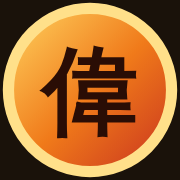
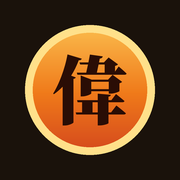
v1.12.0：ホーム画面に追加してアプリのように使えるように（PWA・オフライン対応）
Claude-Session: https://claude.ai/code/session_019EBEYLAobM15J8kx1PkpNF

diff --git a/sw.js b/sw.js
@@ -1,0 +1,28 @@
+/* オフライン対応（Service Worker）
+   - 通信できるときは常に最新のファイルを取りに行き（ネットワーク優先）、取れたものを保存しておく
+   - 通信できないときは、保存しておいたファイルで動かす
+   そのため、更新はオンラインで開けばすぐ反映される。CACHE の名前を変えると古い保存分を消す */
+const CACHE = 'ijinden-play-v1';
+const CORE = [
+  './', 'index.html', 'manifest.json',
+  'css/style.css', 'css/vs.css',
+  'js/version.js', 'js/cards-data.js', 'js/preset-decks.js', 'js/summon-rules.js', 'js/glossary.js',
+  'js/app.js', 'js/hand-checker.js', 'js/vs-engine.js', 'js/vs-ui.js',
+  'favicon.svg', 'favicon-32.png', 'apple-touch-icon.png', 'icon-192.png', 'icon-512.png'
+];
+self.addEventListener('install', e => {
+  e.waitUntil(caches.open(CACHE).then(c => c.addAll(CORE)).then(() => self.skipWaiting()));
+});
+self.addEventListener('activate', e => {
+  e.waitUntil(caches.keys().then(keys => Promise.all(keys.filter(k => k !== CACHE).map(k => caches.delete(k)))).then(() => self.clients.claim()));
+});
+self.addEventListener('fetch', e => {
+  const req = e.request;
+  if (req.method !== 'GET' || new URL(req.url).origin !== self.location.origin) return;   // 外部（Googleフォントなど）はブラウザに任せる
+  e.respondWith(
+    fetch(req).then(res => {
+      if (res && (res.ok || res.type === 'opaque')) { const copy = res.clone(); caches.open(CACHE).then(c => c.put(req, copy)); }
+      return res;
+    }).catch(() => caches.match(req, { ignoreSearch: true }).then(hit => hit || (req.mode === 'navigate' ? caches.match('index.html') : undefined)))
+  );
+});

diff --git a/index.html b/index.html
@@ -2,11 +2,18 @@
 <html lang="ja">
 <head>
 <meta charset="UTF-8">
-<meta name="viewport" content="width=device-width, initial-scale=1.0">
+<meta name="viewport" content="width=device-width, initial-scale=1.0, viewport-fit=cover">
 <title>イジンデン一人回し</title>
 <link rel="icon" type="image/svg+xml" href="favicon.svg?v=2">
 <link rel="icon" type="image/png" sizes="32x32" href="favicon-32.png?v=2">
-<link rel="apple-touch-icon" href="apple-touch-icon.png?v=2">
+<link rel="apple-touch-icon" href="apple-touch-icon.png?v=3">
+<!-- ホーム画面に追加してアプリのように使う（PWA） -->
+<link rel="manifest" href="manifest.json">
+<meta name="theme-color" content="#1a120b">
+<meta name="apple-mobile-web-app-capable" content="yes">
+<meta name="mobile-web-app-capable" content="yes">
+<meta name="apple-mobile-web-app-status-bar-style" content="black">
+<meta name="apple-mobile-web-app-title" content="イジンデン">
 <link rel="preconnect" href="https://fonts.googleapis.com">
 <link href="https://fonts.googleapis.com/css2?family=Shippori+Mincho:wght@500;700;800&family=Zen+Kaku+Gothic+New:wght@400;500;700;900&display=swap" rel="stylesheet">
 <link rel="stylesheet" href="css/style.css">

diff --git a/js/version.js b/js/version.js
@@ -1,7 +1,7 @@
 /* アプリのバージョン（更新したら番号を上げる。ヘッダのバッジに表示し、更新履歴へリンク） */
 (function () {
   'use strict';
-  const APP_VERSION = '1.11.0';
+  const APP_VERSION = '1.12.0';
   const APP_UPDATED = '2026-10-25';
   window.APP_VERSION = APP_VERSION;
   function put() {
@@ -16,4 +16,8 @@
     h1.appendChild(a);
   }
   if (document.readyState === 'loading') document.addEventListener('DOMContentLoaded', put); else put();
+  // オフライン対応：Webサーバー（GitHub Pages など）で開いたときだけ Service Worker を登録（ファイルを直接開いたときは使わない）
+  if ('serviceWorker' in navigator && /^https?:$/.test(location.protocol)) {
+    window.addEventListener('load', () => { navigator.serviceWorker.register('sw.js').catch(() => { /* 使えない環境では何もしない */ }); });
+  }
 })();
